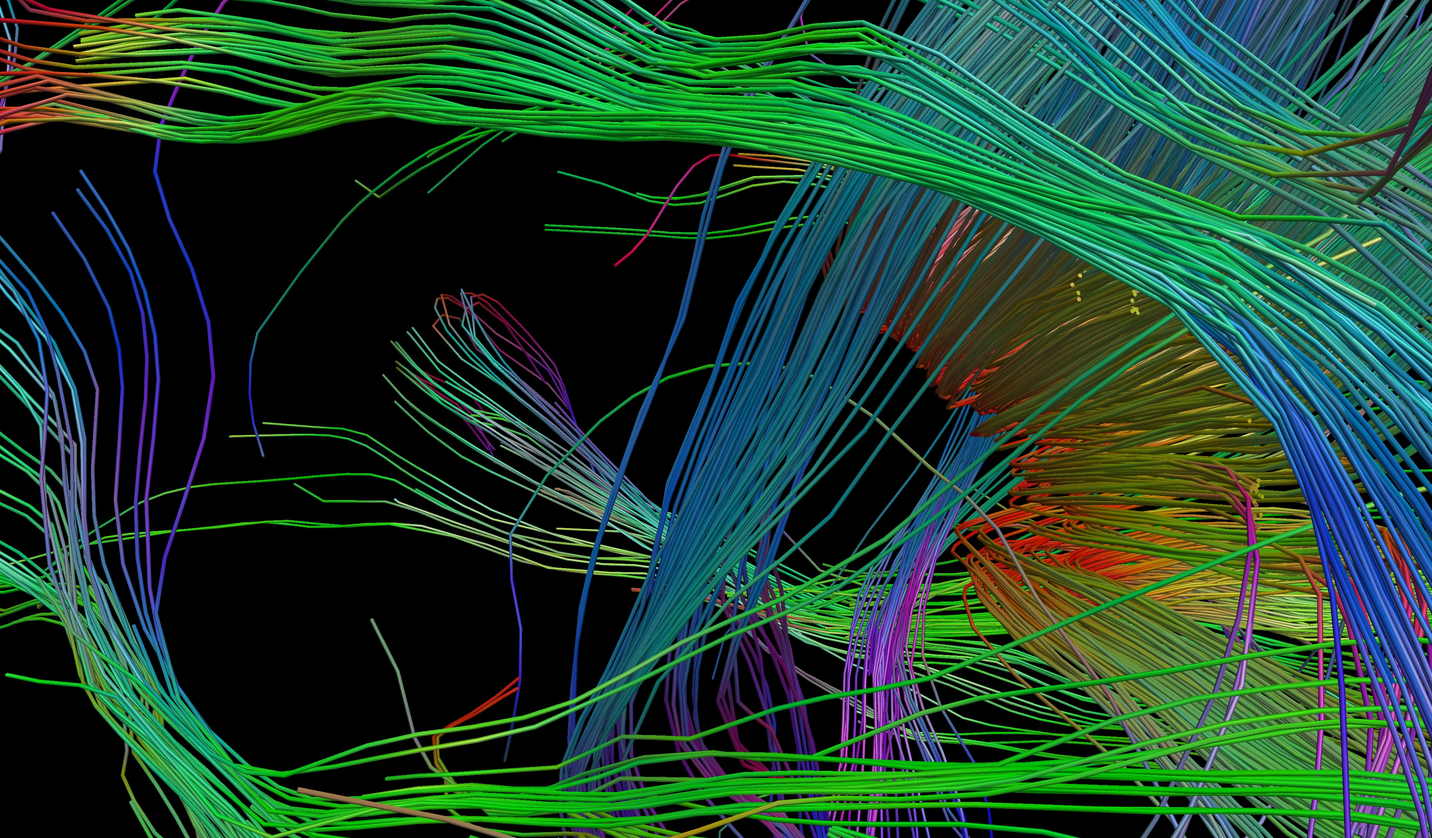
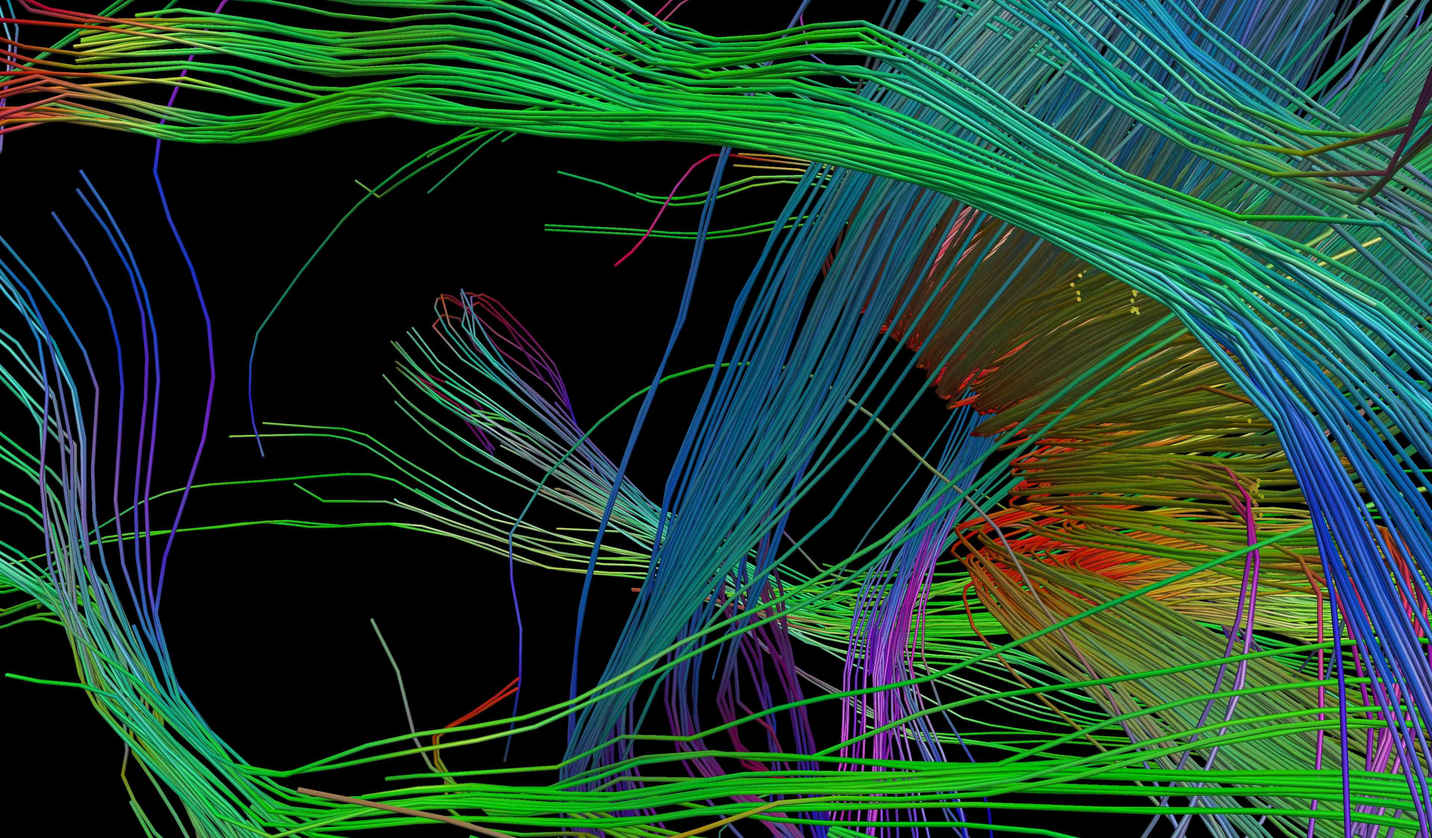
Voxel Rx

diff --git a/index.html b/index.html
@@ -271,7 +271,7 @@
 							<div class="row">
 								<div class="col-lg-12">
 									<div class="tm-box">
-										<img src="img/4-5.png" alt="Image" class="img-responsive">
+										<img src="img/4-5.jpg" alt="Image" class="img-responsive">
 										<div class="tm-box-description">
 											<h2>One Big Column</h2>
 											<p class="tm-box-p">Lorem ipsum dolor sit amet, consectetur adipiscing elit. Nam tempor eros eget eros maximus, ut cursus sem euismod. Donec iaculis tristique odio at consectetur. Nullam dignissim varius suscipit. Sed in leo sit amet velit finibus pretium. Vivamus dictum nisi ac fermentum interdum. Vestibulum vel mauris at erat mattis accumsan et ac lorem. Cras non venenatis orci, sed tincidunt massa. Duis nisl lectus, auctor eu sodales at, dignissim eu orci. Sed vitae venenatis magna, in blandit metus. Praesent volutpat cursus rhoncus. Aenean arcu diam, suscipit ac neque in, sollicitudin convallis orci.</p>
@@ -426,7 +426,7 @@
         	speed: 0.2
     	});
     	 $('.Research-section2').parallax({
-        	imageSrc: 'img/bg-22.png',
+        	imageSrc: 'img/bg-22.jpg',
         	speed: 0.2
     	});
         $('.contact-section').parallax({
